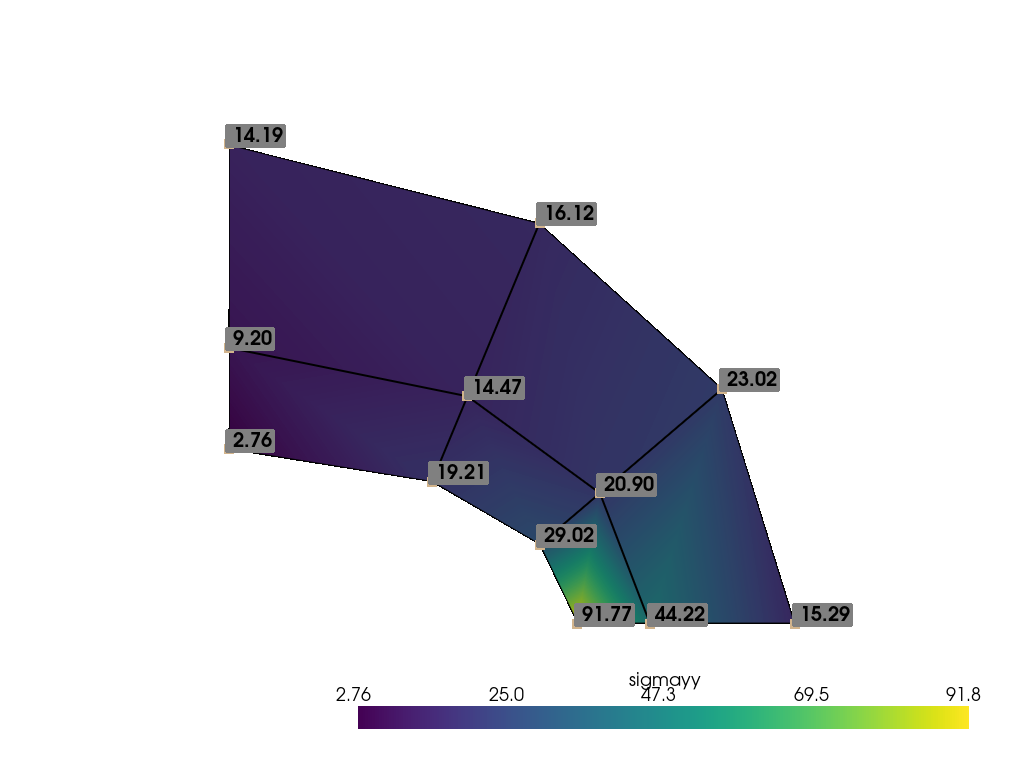
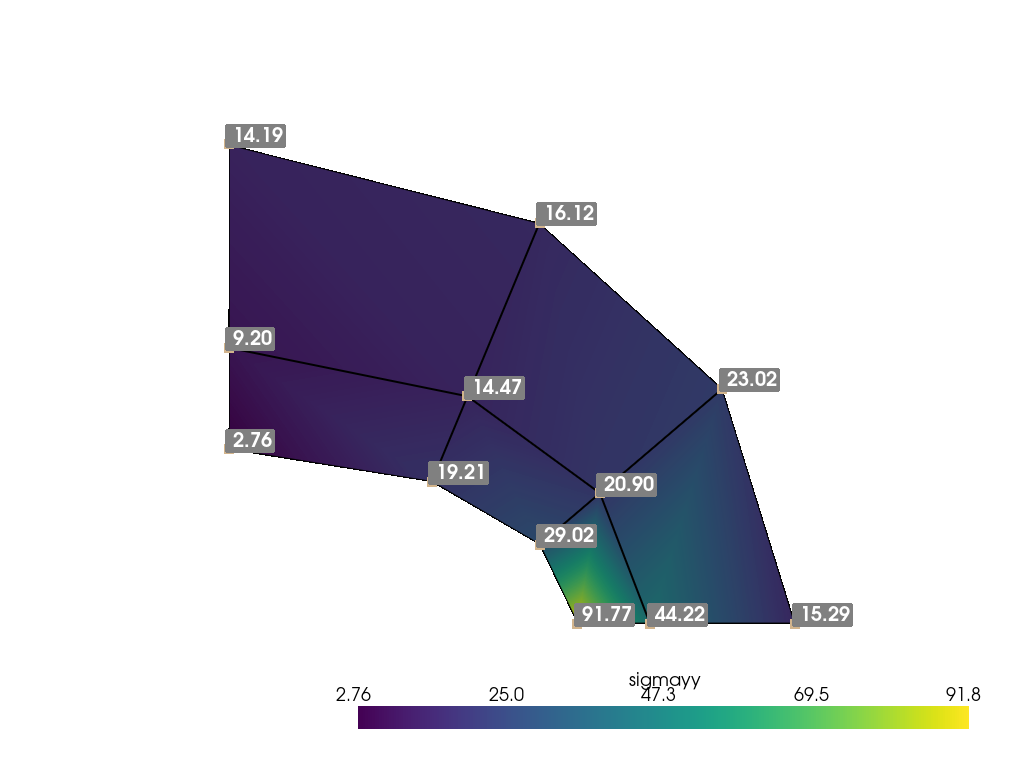
Add coarse-triangle-1d.py

diff --git a/benchmarks_data/structure/elliptic_membrane/GetFEM/coarse-triangle-1d.py b/benchmarks_data/structure/elliptic_membrane/GetFEM/coarse-triangle-1d.py
@@ -10,7 +10,7 @@ nu = 0.3  # Poisson Coefficient
 clambda = Emodulus * nu / ((1.0 + nu) * (1.0 - 2.0 * nu))
 mu = Emodulus / (2.0 * (1 + nu))
 
-mesh = gf.Mesh("load", "./mesh/coarse-quadrilateron-1d.msh")
+mesh = gf.Mesh("load", "./mesh/coarse-triangle-1d.msh")
 
 fb1 = mesh.outer_faces_with_direction([-1.0, 0.0], 0.01)
 fb2 = mesh.outer_faces_with_direction([0.0, -1.0], 0.01)
@@ -59,12 +59,12 @@ md.solve()
 U = md.variable("u")
 grad_u = gf.compute_gradient(mfu, U, mfd)
 sigmayy = clambda * (grad_u[0, 0] + grad_u[1, 1]) + 2.0 * mu * grad_u[1, 1]
-mfu.export_to_vtk("coarse-quadrilateron-1d.vtk", "ascii", mfd, sigmayy, "sigmayy")
+mfu.export_to_vtk("coarse-triangle-1d.vtk", "ascii", mfd, sigmayy, "sigmayy")
 
-m = pv.read("coarse-quadrilateron-1d.vtk")
+m = pv.read("coarse-triangle-1d.vtk")
 pl = pv.Plotter()
 pl.add_mesh(m, show_edges=True, line_width=2, scalars="sigmayy")
 pl.add_point_scalar_labels(
     m, "sigmayy", point_size=10, font_size=20, fmt="%.2f", text_color="white"
 )
-pl.show(cpos="xy", screenshot="coarse-quadrilateron-1d.png")
+pl.show(cpos="xy", screenshot="coarse-triangle-1d.png")
